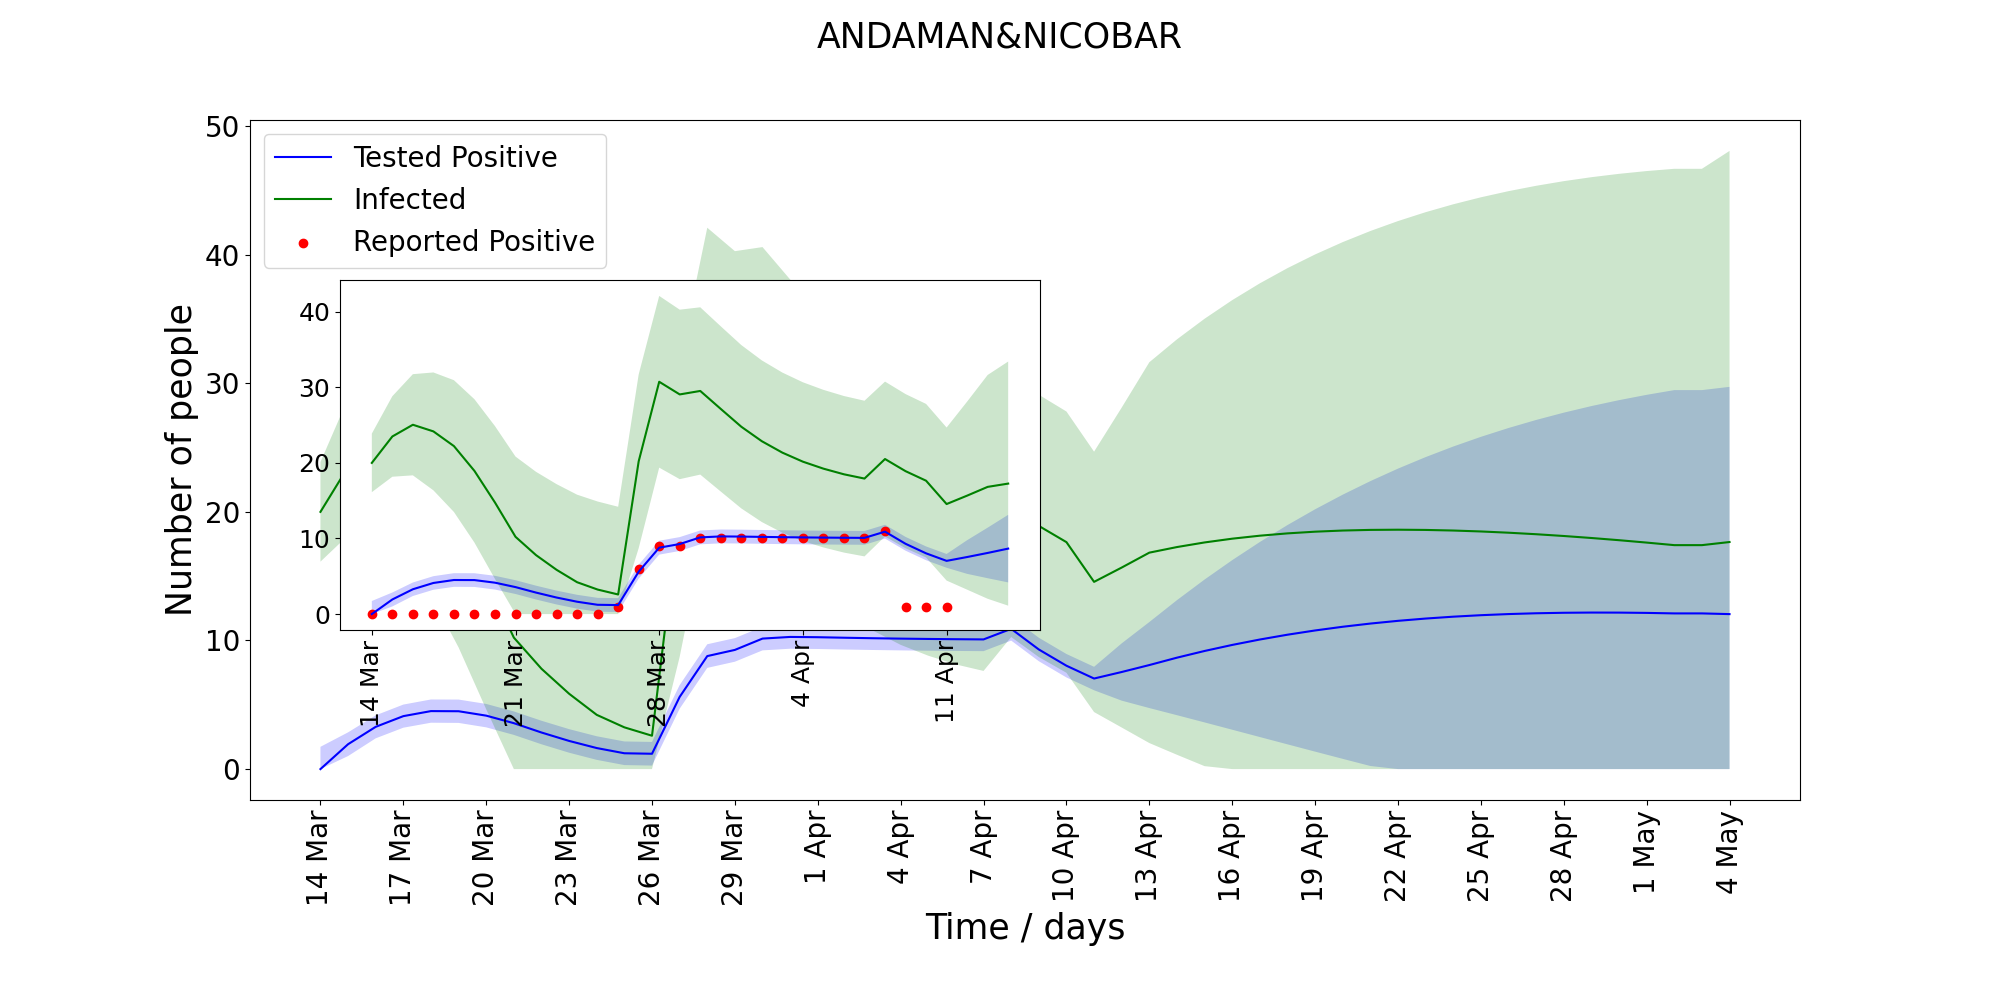
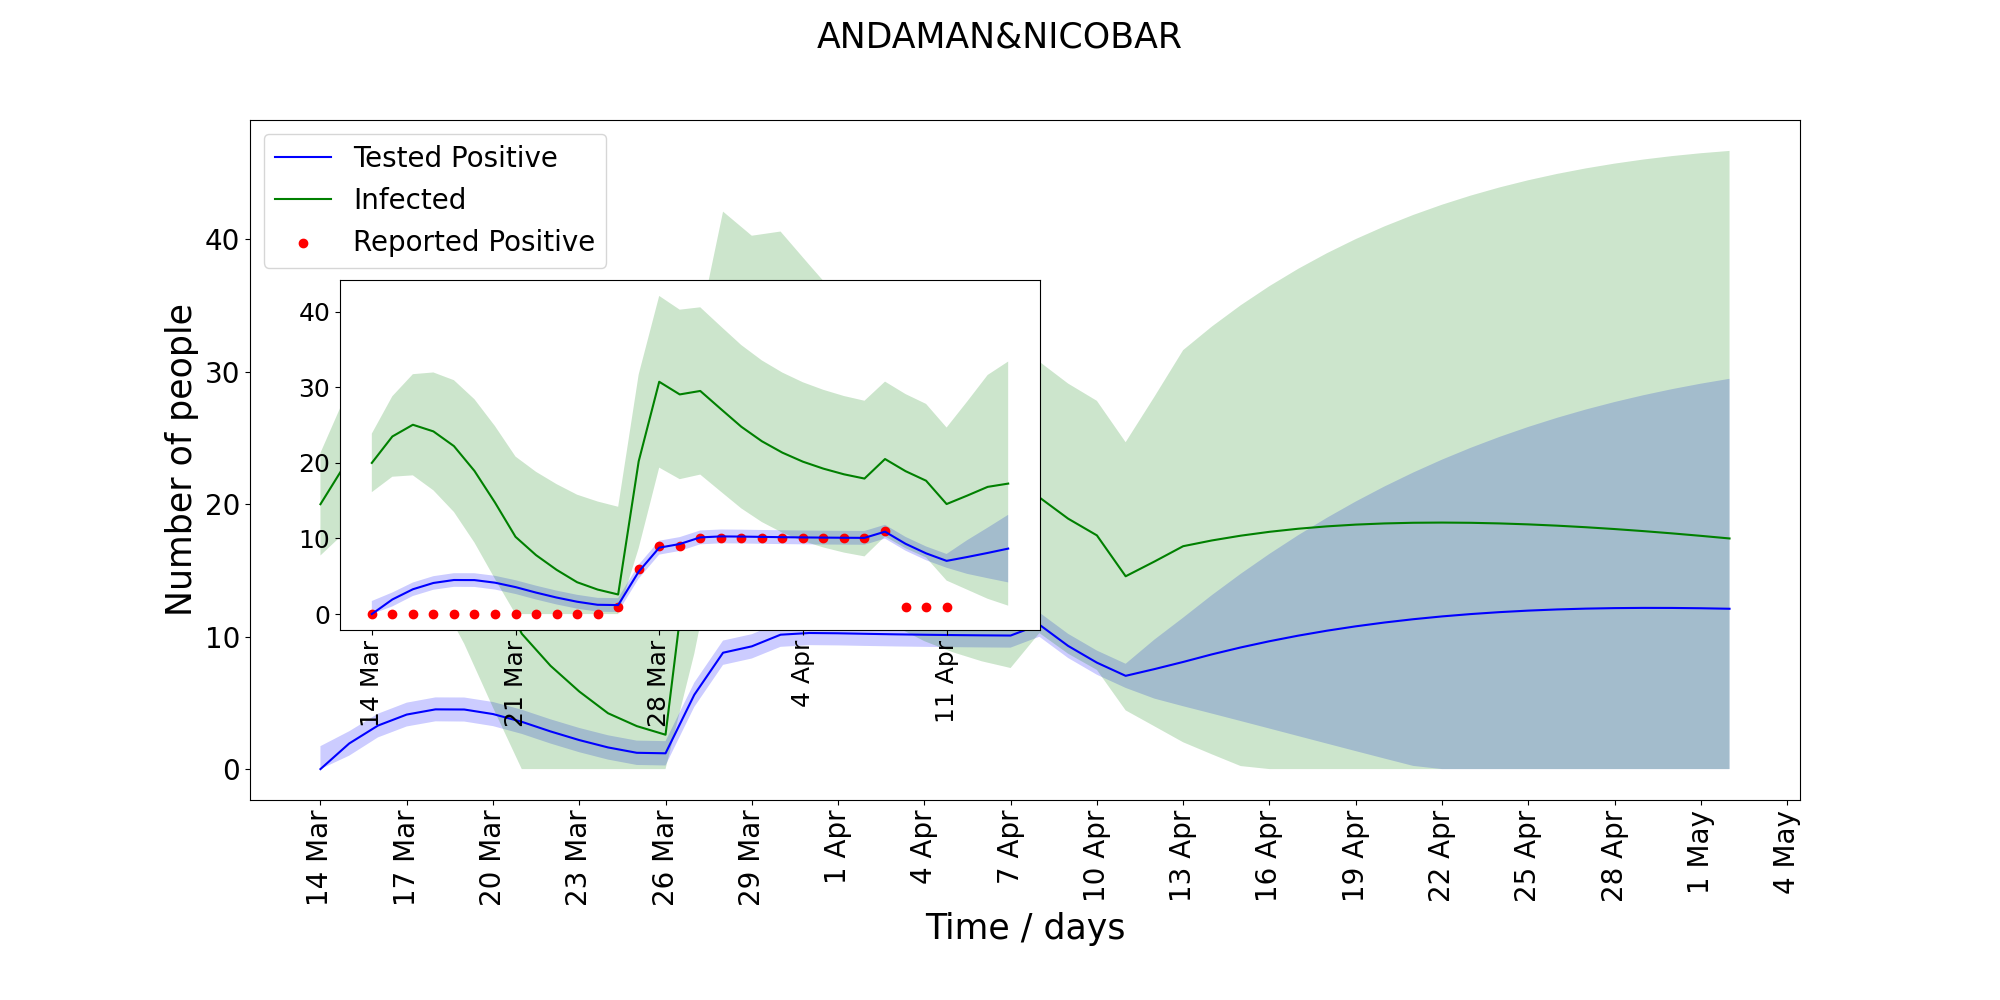
Fixed end of whole simulation to 1 Jun

diff --git a/Simulate.py b/Simulate.py
@@ -151,8 +151,7 @@ if __name__ == "__main__" :
     R = lambda t : np.array([])
     Z = lambda t : np.array([])
     tStart = model.lockdownEnd
-    tEnd = Date('5 May')
-#    tEnd = Date('1 Jun')
+    tEnd = Date('1 Jun')
 
     newSeries, newVariances = extendedKalmanFilter(model.timeUpdate, x0, P0, Q, H, R, Z, tStart, tEnd)
 
